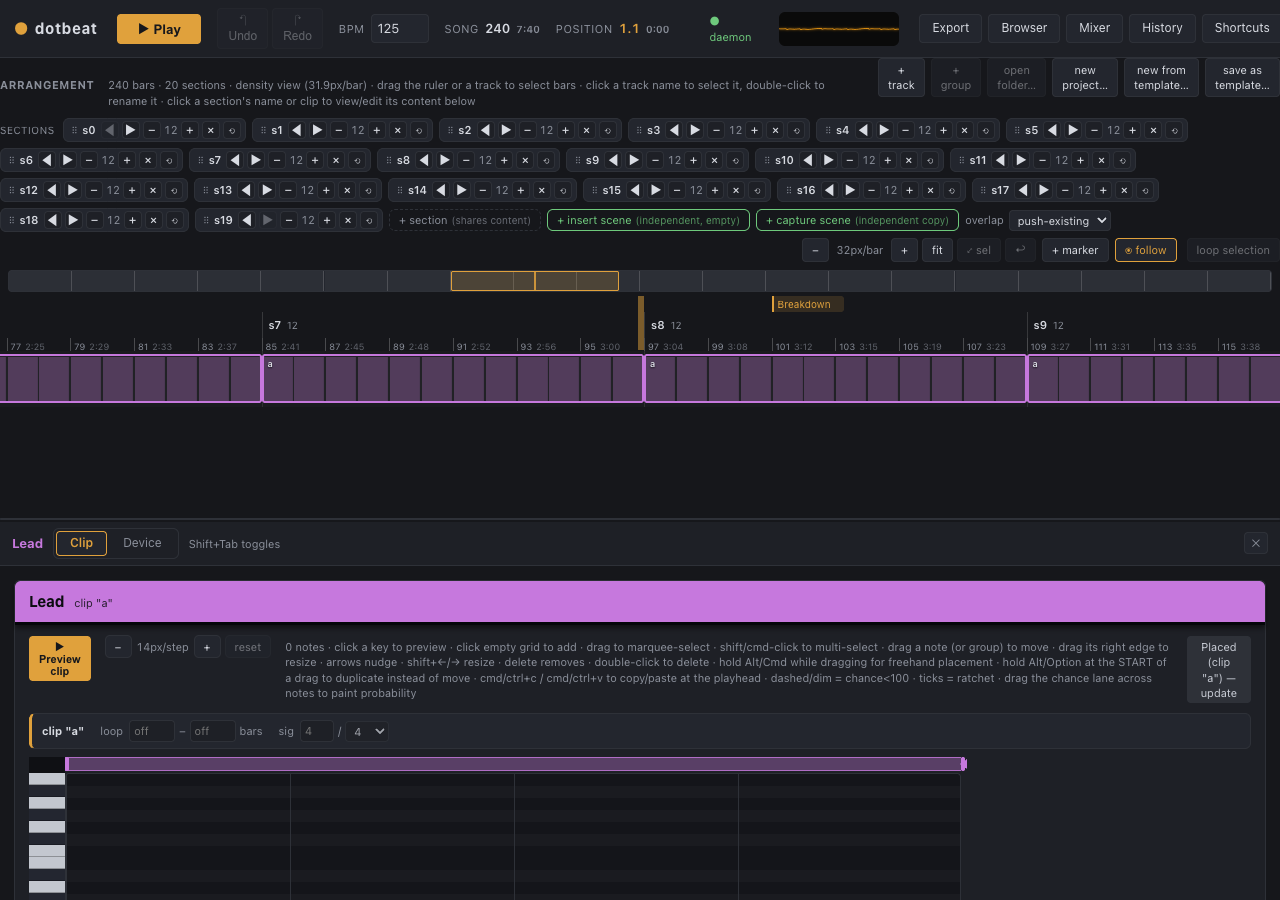
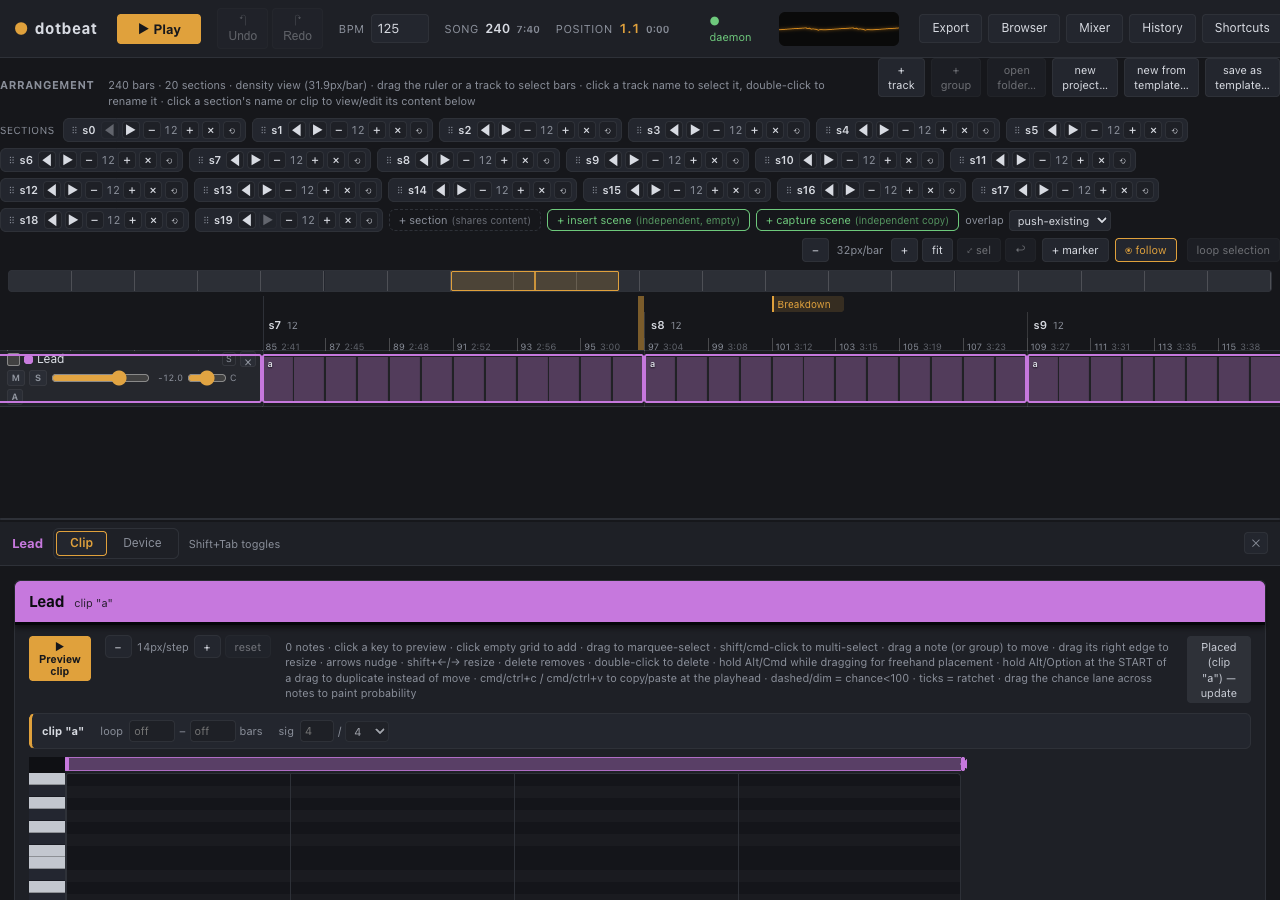
Keep track headers pinned at any horizontal scroll depth
Stream A's usability pilot: headers detached past scrollLeft ~1336 on
the 240-bar timeline and slid away with the mute/solo controls, which
made muting the reference track impossible at the zoom you would
actually work at — and a "typically muted" reference is the whole point
of that workflow.

`position: sticky` was already on the header and the ruler corner. The
problem was underneath it: a flex row inside a scroll container takes
the SCROLLPORT's width by default, not its content's, so the row was
1280px wide while its own children spanned 7914px. A sticky child can
only stick within its containing block, so the pin ran out at
rowWidth - headerWidth and the header simply left with the content.
Measured before: header at -4984px by scrollLeft 6000. After:
0px at every depth, with its first control at +37px.

`min-width: max-content` on the three row types (.arr-row,
.arr-ruler-row, .arr-auto-row) sizes them to the timeline, which is what
sticky needs to span.

Asserted on the BUTTON, not the header box: "the header exists at x=0"
is not the claim that failed — "you can click mute" is.

Changed region(s): [[0.0, 0.3733, 0.2188, 0.4667]]

diff --git a/ui/src/styles.css b/ui/src/styles.css
@@ -2094,6 +2094,15 @@ body {
   z-index: 2;
   background: var(--bg);
   border-bottom: 1px solid var(--line);
+  /* Phase 41 Stream D: WITHOUT this, `position: sticky` on the header/corner inside silently stops
+     working past `rowWidth - headerWidth` of horizontal scroll. A flex row inside a scroll container
+     takes the SCROLLPORT's width by default, not its content's, so its children overflow it — and a
+     sticky child can only stick within its own containing block. Measured on a 240-bar timeline at
+     full zoom: the header pinned correctly to scrollLeft 1000, then detached and slid to -4984 by
+     scrollLeft 6000, taking the mute/solo controls off-screen with it. That made muting the
+     reference track impossible at the zoom you actually work at (Stream A's usability pilot).
+     `max-content` sizes the row to the whole timeline, which is what sticky needs to span. */
+  min-width: max-content;
 }
 .arr-ruler-corner {
   flex: 0 0 auto;
@@ -2282,6 +2291,15 @@ body {
   display: flex;
   align-items: stretch;
   border-bottom: 1px solid var(--line);
+  /* Phase 41 Stream D: WITHOUT this, `position: sticky` on the header/corner inside silently stops
+     working past `rowWidth - headerWidth` of horizontal scroll. A flex row inside a scroll container
+     takes the SCROLLPORT's width by default, not its content's, so its children overflow it — and a
+     sticky child can only stick within its own containing block. Measured on a 240-bar timeline at
+     full zoom: the header pinned correctly to scrollLeft 1000, then detached and slid to -4984 by
+     scrollLeft 6000, taking the mute/solo controls off-screen with it. That made muting the
+     reference track impossible at the zoom you actually work at (Stream A's usability pilot).
+     `max-content` sizes the row to the whole timeline, which is what sticky needs to span. */
+  min-width: max-content;
 }
 .arr-track-header {
   flex: 0 0 auto;
@@ -2634,6 +2652,15 @@ body {
   align-items: stretch;
   border-bottom: 1px solid var(--line);
   background: rgba(0, 0, 0, 0.12);
+  /* Phase 41 Stream D: WITHOUT this, `position: sticky` on the header/corner inside silently stops
+     working past `rowWidth - headerWidth` of horizontal scroll. A flex row inside a scroll container
+     takes the SCROLLPORT's width by default, not its content's, so its children overflow it — and a
+     sticky child can only stick within its own containing block. Measured on a 240-bar timeline at
+     full zoom: the header pinned correctly to scrollLeft 1000, then detached and slid to -4984 by
+     scrollLeft 6000, taking the mute/solo controls off-screen with it. That made muting the
+     reference track impossible at the zoom you actually work at (Stream A's usability pilot).
+     `max-content` sizes the row to the whole timeline, which is what sticky needs to span. */
+  min-width: max-content;
 }
 .arr-auto-head {
   flex: 0 0 auto;
